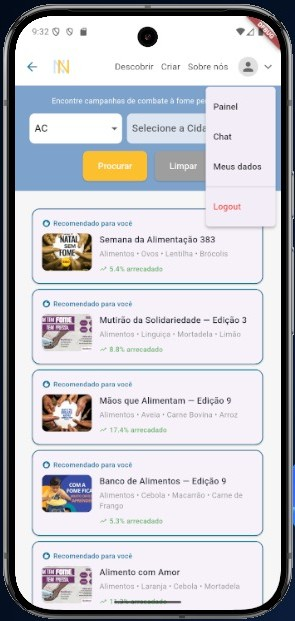
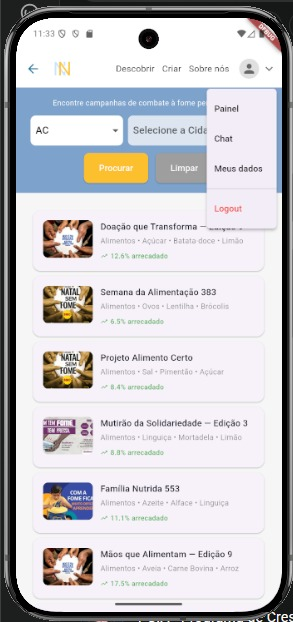
feat(front_mobile): exibir recomendações de alimentos após doação e remover badge dos cards

diff --git a/front_mobile/lib/screens/doar_alimentos.dart b/front_mobile/lib/screens/doar_alimentos.dart
@@ -20,6 +20,7 @@ class DoarAlimentosPage extends StatefulWidget {
 
 class _DoarAlimentosPageState extends State<DoarAlimentosPage> {
   final Map<String, int> _doacoes = {};
+  List<String> _recomendacoes = [];
 
   @override
   void initState() {
@@ -497,6 +498,55 @@ class _DoarAlimentosPageState extends State<DoarAlimentosPage> {
               const Text('1. O responsável da campanha entrará em contato'),
               const Text('2. Será combinado local e horário para entrega'),
               const Text('3. Você receberá um comprovante da doação'),
+              if (_recomendacoes.isNotEmpty) ...[
+                const SizedBox(height: 16),
+                Container(
+                  padding: const EdgeInsets.all(12),
+                  decoration: BoxDecoration(
+                    color: const Color(0xFF027ba1).withValues(alpha: 0.08),
+                    borderRadius: BorderRadius.circular(8),
+                    border: Border.all(
+                      color: const Color(0xFF027ba1).withValues(alpha: 0.4),
+                    ),
+                  ),
+                  child: Column(
+                    crossAxisAlignment: CrossAxisAlignment.start,
+                    children: [
+                      const Text(
+                        'Quem doou estes alimentos também doou:',
+                        style: TextStyle(
+                          fontWeight: FontWeight.w600,
+                          fontSize: 13,
+                          color: Color(0xFF027ba1),
+                        ),
+                      ),
+                      const SizedBox(height: 8),
+                      Wrap(
+                        spacing: 8,
+                        runSpacing: 6,
+                        children: _recomendacoes
+                            .map(
+                              (alimento) => Chip(
+                                label: Text(
+                                  alimento,
+                                  style: const TextStyle(
+                                    color: Colors.white,
+                                    fontSize: 12,
+                                    fontWeight: FontWeight.w600,
+                                  ),
+                                ),
+                                backgroundColor: const Color(0xFF027ba1),
+                                padding: EdgeInsets.zero,
+                                materialTapTargetSize:
+                                    MaterialTapTargetSize.shrinkWrap,
+                              ),
+                            )
+                            .toList(),
+                      ),
+                    ],
+                  ),
+                ),
+              ],
             ],
           ),
           actions: [
@@ -601,12 +651,33 @@ class _DoarAlimentosPageState extends State<DoarAlimentosPage> {
       final resp = await api.post('/doacoes', payload);
       if (!mounted) return;
       if (resp.statusCode == 201 || resp.statusCode == 200) {
-        ScaffoldMessenger.of(context).showSnackBar(
-          const SnackBar(
-            content: Text('Doação registrada com sucesso!'),
-            backgroundColor: Colors.green,
-          ),
-        );
+        final alimentosDoados = alimentosDoacao
+            .map((a) => nomeParaId.entries
+                .firstWhere((e) => e.value == a['alimento_id'],
+                    orElse: () => const MapEntry('', ''))
+                .key)
+            .where((n) => n.isNotEmpty)
+            .toList();
+
+        List<String> sugeridos = [];
+        try {
+          final recResp = await api.post('/mineracao/recomendacoes', {
+            'alimentos': alimentosDoados,
+          });
+          if (recResp.statusCode == 200) {
+            final recData = jsonDecode(recResp.body);
+            final lista = recData['recomendacoes'] ?? recData ?? [];
+            final doados = alimentosDoados.map((a) => a.toLowerCase()).toSet();
+            sugeridos = (lista as List)
+                .map((r) => (r['alimentoSugerido'] ?? r).toString())
+                .where((s) => !doados.contains(s.toLowerCase()))
+                .toList();
+          }
+        } catch (_) {}
+
+        if (mounted) {
+          setState(() => _recomendacoes = sugeridos);
+        }
       } else {
         ScaffoldMessenger.of(context).showSnackBar(
           SnackBar(

diff --git a/front_mobile/lib/screens/descobrir_campanha.dart b/front_mobile/lib/screens/descobrir_campanha.dart
@@ -31,49 +31,11 @@ class _DescobrirCampanhaPage extends State<DescobrirCampanhaPage> {
   List<Map<String, dynamic>> _estadosCidades = [];
   bool _usingFallbackEstados = false;
 
-  // Recomendações por mineração
-  List<String> _recomendacoes = [];
-
   @override
   void initState() {
     super.initState();
     _fetchEstadosCidades();
     _fetchCampanhas();
-    _fetchRecomendacoes();
-  }
-
-  Future<void> _fetchRecomendacoes() async {
-    final api = ApiService(baseUrl: ApiConfig.baseUrl);
-    try {
-      final resp = await api.get('/doacoes/minhas');
-      if (resp.statusCode != 200) return;
-      final doacoes = (jsonDecode(utf8.decode(resp.bodyBytes)) as List)
-          .cast<Map<String, dynamic>>();
-
-      final alimentosUnicos = <String>{};
-      for (final d in doacoes) {
-        for (final a in (d['alimentos_doados'] as List? ?? [])) {
-          final nome = a['alimento']?['nome']?.toString() ?? '';
-          if (nome.isNotEmpty) alimentosUnicos.add(nome);
-        }
-      }
-      if (alimentosUnicos.isEmpty) return;
-
-      final recResp = await api.post(
-        '/mineracao/recomendacoes',
-        {'alimentos': alimentosUnicos.toList()},
-      );
-      if (recResp.statusCode == 200) {
-        final data = jsonDecode(utf8.decode(recResp.bodyBytes));
-        final lista = data['recomendacoes'] ?? data ?? [];
-        final sugeridos = (lista as List)
-            .map((r) => (r['alimentoSugerido'] ?? r).toString())
-            .where((s) => !alimentosUnicos.contains(s))
-            .toSet()
-            .toList();
-        if (mounted) setState(() => _recomendacoes = sugeridos);
-      }
-    } catch (_) {}
   }
 
   Future<void> _fetchEstadosCidades() async {
@@ -238,18 +200,8 @@ class _DescobrirCampanhaPage extends State<DescobrirCampanhaPage> {
     );
   }
 
-  bool _campanhaRecomendada(Campaign c) {
-    if (_recomendacoes.isEmpty) return false;
-    final rec = _recomendacoes.map((r) => r.toLowerCase()).toSet();
-    return c.tiposAlimento.any((a) => rec.contains(a.toLowerCase()));
-  }
-
   Widget _buildListaPaginada() {
-    // Recomendadas primeiro, depois o restante
-    final ordenadas = [
-      ..._campanhas.where(_campanhaRecomendada),
-      ..._campanhas.where((c) => !_campanhaRecomendada(c)),
-    ];
+    final ordenadas = List<Campaign>.from(_campanhas);
 
     final totalPaginas = (ordenadas.length / _porPagina).ceil().clamp(1, 9999);
     final inicio = (_paginaAtual - 1) * _porPagina;
@@ -259,42 +211,17 @@ class _DescobrirCampanhaPage extends State<DescobrirCampanhaPage> {
     return Column(
       children: [
         ...pagina.map((campanha) {
-          final recomendada = _campanhaRecomendada(campanha);
           return GestureDetector(
               onTap: () => Navigator.of(context).pushNamed(
                 '/detalhes-campanha',
                 arguments: campanha,
               ),
               child: Card(
-                shape: recomendada
-                    ? RoundedRectangleBorder(
-                        borderRadius: BorderRadius.circular(12),
-                        side: const BorderSide(color: Color(0xFF027ba1), width: 1.5),
-                      )
-                    : null,
                 child: Padding(
                   padding: const EdgeInsets.all(16),
                   child: Column(
                     crossAxisAlignment: CrossAxisAlignment.start,
                     children: [
-                      if (recomendada)
-                        Padding(
-                          padding: const EdgeInsets.only(bottom: 8),
-                          child: Row(
-                            children: const [
-                              Icon(Icons.recommend, size: 14, color: Color(0xFF027ba1)),
-                              SizedBox(width: 4),
-                              Text(
-                                'Recomendado para você',
-                                style: TextStyle(
-                                  fontSize: 11,
-                                  fontWeight: FontWeight.w600,
-                                  color: Color(0xFF027ba1),
-                                ),
-                              ),
-                            ],
-                          ),
-                        ),
                       Row(
                         crossAxisAlignment: CrossAxisAlignment.start,
                         children: [

diff --git a/front_mobile/README.md b/front_mobile/README.md
@@ -10,8 +10,8 @@ Aplicação Flutter (Android) que conecta doadores de alimentos com campanhas so
 
 ## 📋 Índice
 
-- Sobre o Projeto
 - Telas
+- Sobre o Projeto
 - Funcionalidades
 - Tecnologias
 - Instalação
@@ -64,6 +64,10 @@ Aplicação Flutter (Android) que conecta doadores de alimentos com campanhas so
 
 <table>
   <tr>
+    <td align="center">
+      <img src="https://github.com/yagomouro/DSM-PI6-2026-1/blob/master/img_telas/mobile/mobile-telapainel-minhasdocampanhas.jpeg" alt="Tela Painel Minhas Campanhas"  width="250"><br/>
+      <sub>Tela de Doação</sub>
+    </td>
     <td align="center">
       <img src="https://github.com/yagomouro/DSM-PI6-2026-1/blob/master/img_telas/mobile/mobile-telapainel-minhasdocampanhas.jpeg" alt="Tela Painel Minhas Campanhas"  width="250"><br/>
       <sub>Tela Painel Minhas Campanhas</sub>

diff --git a/front_web/README.md b/front_web/README.md
@@ -10,8 +10,8 @@ Aplicação React (TypeScript) que conecta doadores de alimentos com campanhas s
 
 ## 📋 Índice
 
-- Sobre o Projeto
 - Telas
+- Sobre o Projeto
 - Funcionalidades
 - Tecnologias
 - Instalação